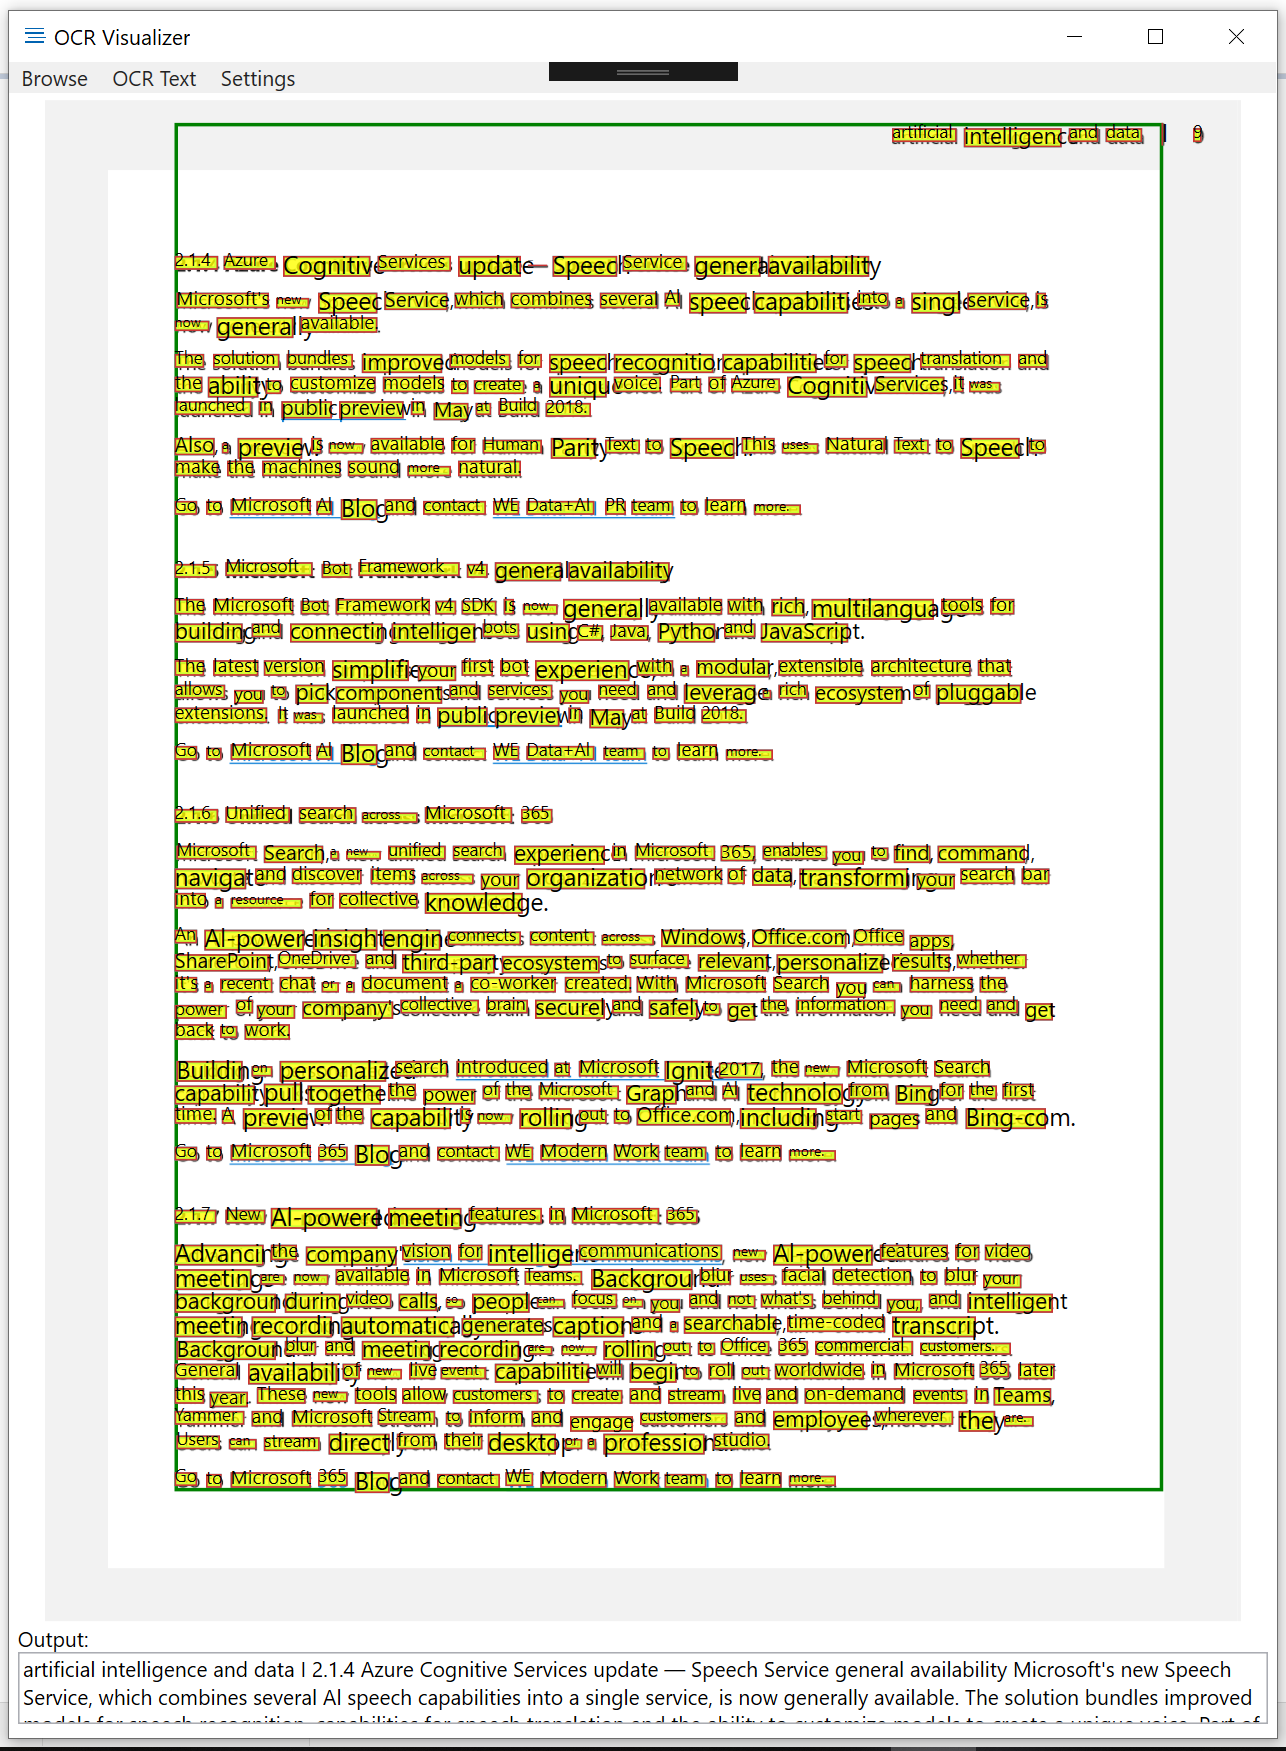
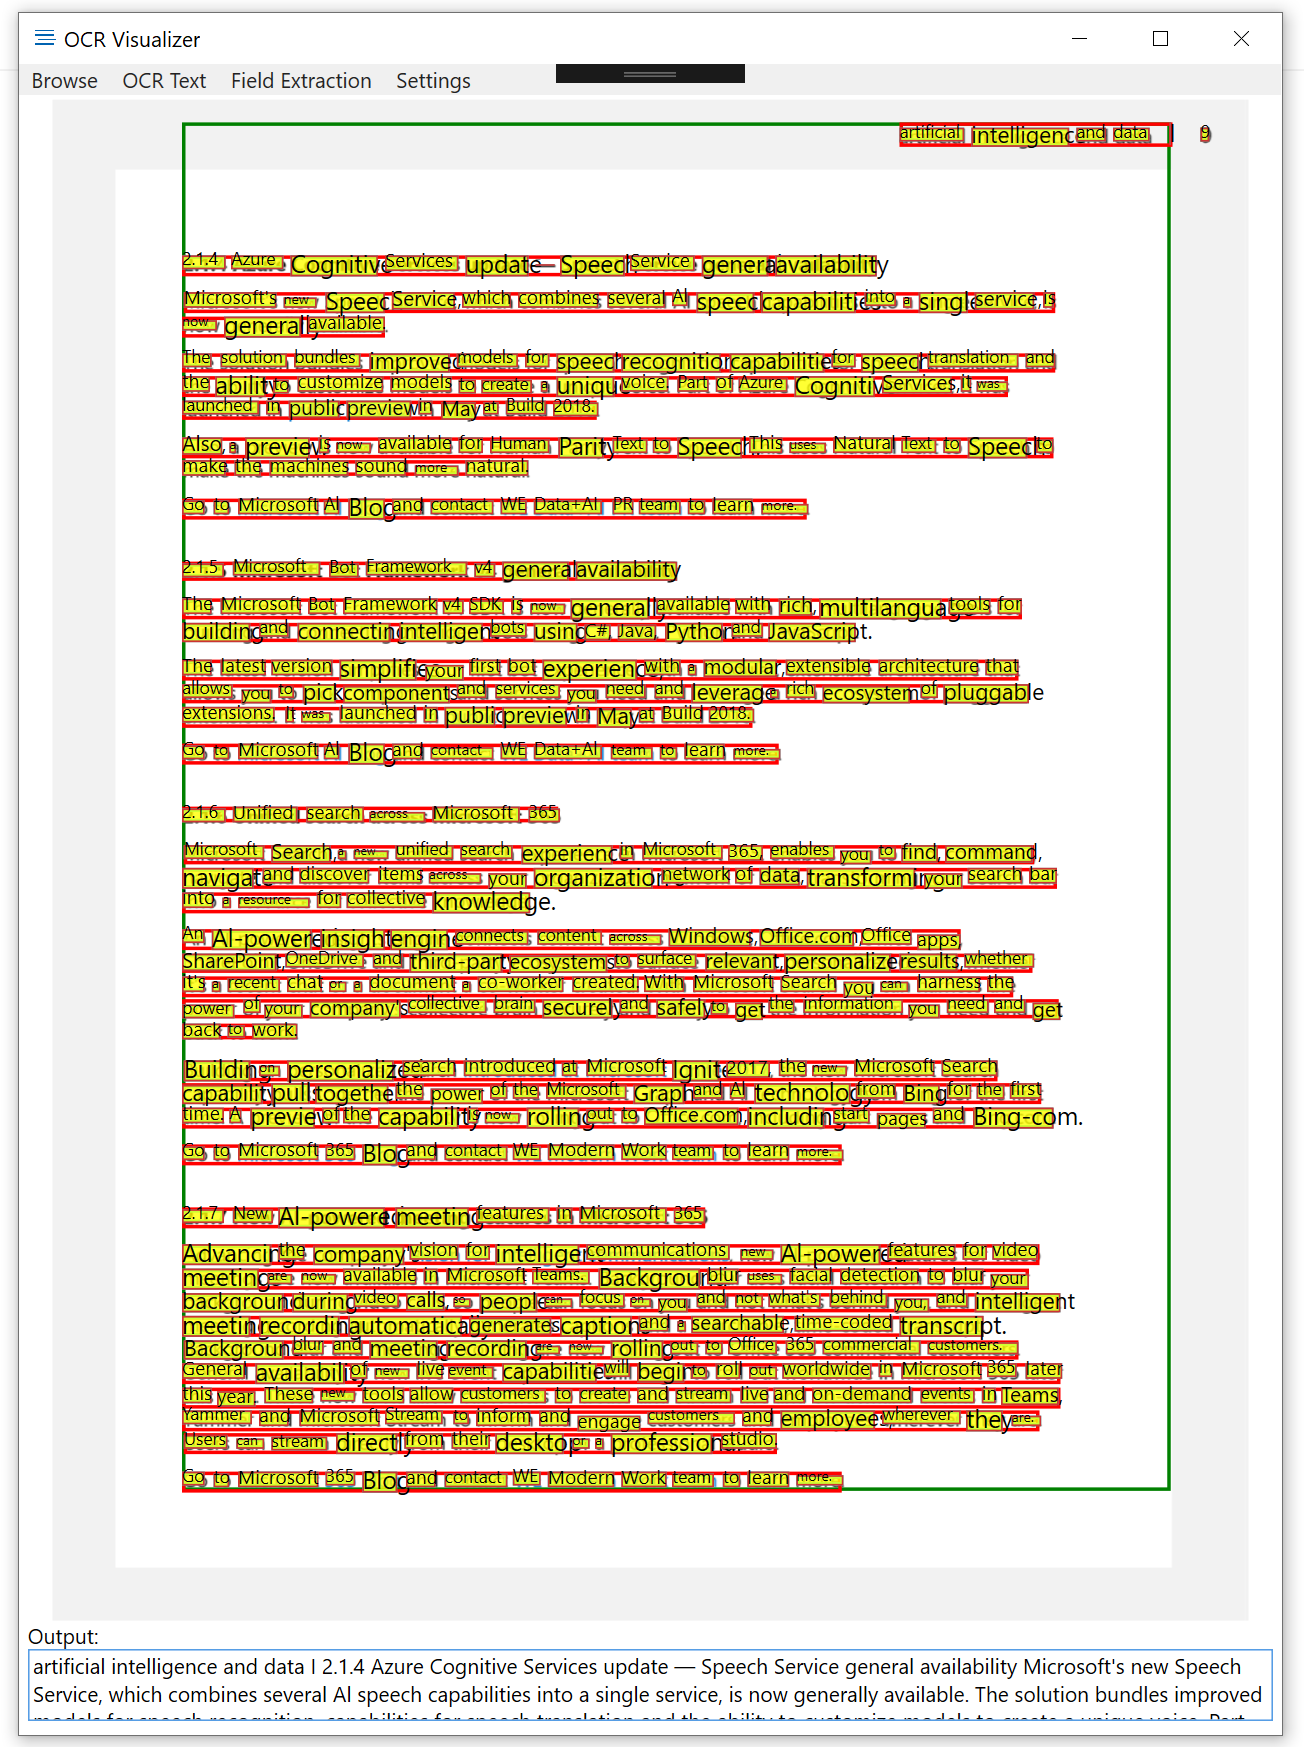
Extract Key-Value Pairs improved
Extract Key-Value Pairs experience has been improved.
New UI panel for OCR field extraction.

diff --git a/OCRVisualizer/MainWindow.xaml b/OCRVisualizer/MainWindow.xaml
@@ -51,10 +51,6 @@
                 <ComboBoxItem Content="sk (Slovak)"/>
             </ComboBox>
 
-            <TextBlock Margin="5,10,5,0"  Text="Key-Value Pairs" FontSize="14" />
-            <TextBlock Margin="5,5,5,0" Text="Enter your Keys (use comma for multiple keys):" />
-            <TextBox x:Name="txtKeys" Margin="5,0" />
-
             <TextBlock Margin="5,10,5,0"  Text="EndPoint Details" FontSize="14" />
             <TextBlock Margin="5,5,5,0" Text="Endpoint Region:" />
             <TextBox x:Name="txtEndPoint" Margin="5,0" />
@@ -63,10 +59,25 @@
             <Button Margin="5,5,5,0" Content="Update" Click="ButtonSettingsUpdate_Click"/>
 
         </StackPanel>
-        <StackPanel x:Name="stckOutput" Orientation="Vertical" VerticalAlignment="Bottom" Height="60" Margin="5,0,5,5">
+        <StackPanel x:Name="stckOutput" Orientation="Vertical" VerticalAlignment="Bottom" Height="60" Visibility="Collapsed" Margin="5,0,5,5">
             <TextBlock Text="Output:"/>
             <TextBox x:Name="txtOcrOutput" Height="41" TextWrapping="Wrap" Margin="0,0,0,2" />
         </StackPanel>
+        <Grid x:Name="gridKeyVal" Margin="0"  ClipToBounds="True" Visibility="Collapsed">
+            <Rectangle Fill="#B2A6A6A6" Margin="0" MouseLeftButtonDown="MouseLeftButtonKeyValue_Down"/>
+            <StackPanel Margin="0,0,0,-1" Orientation="Vertical" Background="#FFF1F1F1" HorizontalAlignment="Center" VerticalAlignment="Center" Visibility="Visible">
+
+                <TextBlock Margin="20,20,20,5"   Text="Key-Value Pairs" FontSize="14" />
+                <TextBlock Text="Enter your Fields (use comma for multiple keys):" Margin="20,0,20,5" />
+                <TextBox x:Name="txtKeys" Margin="20,0,20,5" />
+                <Button Margin="0,5,0,20" Content="Update" Click="ButtonKeyValueUpdate_Click" Width="251.143"/>
+                <StackPanel x:Name="stckKeyValResult" Margin="0,5,0,20" Orientation="Vertical" Width="254" Visibility="Collapsed">
+                    <TextBlock Margin="0,0,-0.286,0" Text="Results" FontSize="14" />
+                    <ListBox x:Name="listBoxKeyValue" Height="150"/>
+                </StackPanel>
+
+            </StackPanel>
+        </Grid>
         <Menu VerticalAlignment="Top" Margin="0,0,0.286,0">
             <MenuItem Header="Browse">
                 <MenuItem Header="Browse Image" Click="ButtonBrowse_Click" />
@@ -74,6 +85,9 @@
             <MenuItem Header="OCR Text">
                 <MenuItem Header="Visible/Disable" Click="ButtonVisiblity_Click"/>
                 <MenuItem Header="Output Visible/Disable" Click="ButtonVisiblityOutPut_Click"/>
+            </MenuItem>
+            <MenuItem Header="Field Extraction">
+                <MenuItem Header="Manage Key-Value" Click="ButtonKeyValue_Click" />
             </MenuItem>
             <MenuItem Header="Settings" >
                 <MenuItem Header="OCR Settings" Click="ButtonSettings_Click" />

diff --git a/OCRVisualizer/MainWindow.xaml.cs b/OCRVisualizer/MainWindow.xaml.cs
@@ -59,6 +59,9 @@ namespace OCRVisualizer
                 var comboBoxItem = comboLanguage.Items.OfType<ComboBoxItem>().FirstOrDefault(x => x.Content.ToString().Contains(docLanguage));
                 comboLanguage.SelectedIndex = comboLanguage.Items.IndexOf(comboBoxItem);
             }
+
+            // Set values of Key-Value field data
+            txtKeys.Text = searchKeys;
         }
 
         // Extract Text & Text Regions 
@@ -95,6 +98,7 @@ namespace OCRVisualizer
             }
 
             canvas.Visibility = Visibility.Visible;
+            stckOutput.Visibility = Visibility.Visible;
             txtOcrOutput.Text = ExtractTextByRegions(ocrVision);
 
             //Search key-value pairs if Keys are defined in Settings.
@@ -119,7 +123,7 @@ namespace OCRVisualizer
                         int wheight = (int)(wvalues[3] );
                         int wleft = (int)(wvalues[0]);
                         int wtop = (int)(wvalues[1]);
-                        textvalues.Add(new TextValue { BoundingBox = sword.BoundingBox, Text=sword.Text, X = wleft, Y = wtop, Height = wheight, Width = wwidth });
+                        textvalues.Add(new TextValue { BoundingBox = sword.BoundingBox, Text=sword.Text, Left = wleft, Top = wtop, Height = wheight, Width = wwidth });
                     }
                 }
             }
@@ -138,10 +142,18 @@ namespace OCRVisualizer
                         // For height It's looking for 10px above
                         string txtreply = string.Join(" ", 
                                                     from a in textvalues
-                                                    where (a.X > tv.X) && (a.X < tv.X + tv.Width + 300) && (a.Y > tv.Y - 10) && (a.Y < tv.Y + tv.Height)
+                                                    where (a.Left > tv.Left) && (a.Left < tv.Left + tv.Width + 300) && (a.Top > tv.Top - 10) && (a.Top < tv.Top + tv.Height)
                                                     select (string)a.Text);
-                        MessageBox.Show(tv.Text + " - " + txtreply);                 
+                        //MessageBox.Show(tv.Text + " - " + txtreply);
+                        listBoxKeyValue.Items.Add(tv.Text + " - " + txtreply);
                     }                    
+                }
+
+                // Hide key-value extraction if there's no match
+                if (listBoxKeyValue.Items.Count > 0)
+                {
+                    stckKeyValResult.Visibility = Visibility.Visible;
+                    gridKeyVal.Visibility = Visibility.Visible;
                 }
             }
         }
@@ -261,7 +273,7 @@ namespace OCRVisualizer
                 // The detectOrientation parameter is set to true, so the method detects and
                 // and corrects text orientation before detecting text.
 
-                string requestParameters = String.Format("language={0}&detectOrientation=true",docLanguage);
+                string requestParameters = String.Format("language={0}&detectOrientation=true",docLanguage.Split()[0]);
 
                 // Assemble the URI for the REST API method.
                 string uri = uriEndpoint + "?" + requestParameters;
@@ -308,7 +320,42 @@ namespace OCRVisualizer
                 return binaryReader.ReadBytes((int)fileStream.Length);
             }
         }
-    
+
+        // Update Setting Panel paramaters
+        public void UpdateConnectionKeys(string subscriptionValue, string endpointValue, string languageValue)
+        {
+            XmlDocument appconfigFile = new XmlDocument();
+            appconfigFile.Load(AppDomain.CurrentDomain.BaseDirectory + "App.config");
+            XmlNode appSettingsNode = appconfigFile.SelectSingleNode("configuration/appSettings");
+
+            foreach (XmlNode childNode in appSettingsNode)
+            {
+                if (childNode.Attributes["key"].Value == "subscriptionKey") childNode.Attributes["value"].Value = subscriptionValue;
+                else if (childNode.Attributes["key"].Value == "endpointRegion") childNode.Attributes["value"].Value = endpointValue;
+                else if (childNode.Attributes["key"].Value == "documentLanguage") childNode.Attributes["value"].Value = languageValue;
+            }
+            appconfigFile.Save(AppDomain.CurrentDomain.BaseDirectory + "App.config");
+            appconfigFile.Save(AppDomain.CurrentDomain.SetupInformation.ConfigurationFile);
+            MessageBox.Show("Fields are updated!");
+        }
+
+        // Update Key-Value Field Extraction parameters
+        public void UpdateKeyValue(string searchKeyValue)
+        {
+            XmlDocument appconfigFile = new XmlDocument();
+            appconfigFile.Load(AppDomain.CurrentDomain.BaseDirectory + "App.config");
+            XmlNode appSettingsNode = appconfigFile.SelectSingleNode("configuration/appSettings");
+
+            foreach (XmlNode childNode in appSettingsNode)
+            {
+                if (childNode.Attributes["key"].Value == "searchValues") childNode.Attributes["value"].Value = searchKeyValue;
+            }
+            appconfigFile.Save(AppDomain.CurrentDomain.BaseDirectory + "App.config");
+            appconfigFile.Save(AppDomain.CurrentDomain.SetupInformation.ConfigurationFile);
+            MessageBox.Show("Field keys are updated!");
+        }
+
+
         private async void ButtonBrowse_Click(object sender, RoutedEventArgs e)
         {
             var openDlg = new Microsoft.Win32.OpenFileDialog();
@@ -342,6 +389,9 @@ namespace OCRVisualizer
             //Clear previous queries if exists.
             canvas.Children.Clear();
             textvalues.Clear();
+            gridKeyVal.Visibility = Visibility.Collapsed;
+            stckKeyValResult.Visibility = Visibility.Collapsed;
+            listBoxKeyValue.Items.Clear();
 
             OCRResponse = await MakeOCRRequest(filePath);
             ExtractTextAndRegionsFromResponse();
@@ -393,26 +443,7 @@ namespace OCRVisualizer
             subscriptionKey = txtSubscriptionKey.Text;
             uriEndpoint = txtEndPoint.Text;
             docLanguage = (comboLanguage.SelectedValue as ComboBoxItem).Content as string;
-            searchKeys = txtKeys.Text;
             UpdateConnectionKeys(subscriptionKey, uriEndpoint, docLanguage);
-        }
-
-        public void UpdateConnectionKeys(string subscriptionValue, string endpointValue, string languageValue)
-        {
-            XmlDocument appconfigFile = new XmlDocument();
-            appconfigFile.Load(AppDomain.CurrentDomain.BaseDirectory + "App.config");
-            XmlNode appSettingsNode = appconfigFile.SelectSingleNode("configuration/appSettings");
-
-            foreach (XmlNode childNode in appSettingsNode)
-            {
-                if (childNode.Attributes["key"].Value == "subscriptionKey") childNode.Attributes["value"].Value = subscriptionValue;
-                else if (childNode.Attributes["key"].Value == "endpointRegion") childNode.Attributes["value"].Value = endpointValue;
-                else if (childNode.Attributes["key"].Value == "documentLanguage") childNode.Attributes["value"].Value = languageValue;
-                else if (childNode.Attributes["key"].Value == "searchValues") childNode.Attributes["value"].Value = languageValue;
-            }
-            appconfigFile.Save(AppDomain.CurrentDomain.BaseDirectory + "App.config");
-            appconfigFile.Save(AppDomain.CurrentDomain.SetupInformation.ConfigurationFile);
-            MessageBox.Show("Fields are updated!");
         }
 
         private void ComboLanguage_SelectionChanged(object sender, SelectionChangedEventArgs e)
@@ -425,5 +456,31 @@ namespace OCRVisualizer
             }
 
         }
+
+        private void ButtonKeyValue_Click(object sender, RoutedEventArgs e)
+        {
+            if (gridKeyVal.Visibility == Visibility.Visible)
+            {
+                gridKeyVal.Visibility = Visibility.Collapsed;
+            }
+            else
+            {
+                txtKeys.Text = searchKeys;
+                gridKeyVal.Visibility = Visibility.Visible;
+            }
+        }
+
+        private void ButtonKeyValueUpdate_Click(object sender, RoutedEventArgs e)
+        {
+            searchKeys = txtKeys.Text;
+            UpdateKeyValue(searchKeys);
+            gridKeyVal.Visibility = Visibility.Collapsed;
+        }
+
+        private void MouseLeftButtonKeyValue_Down(object sender, MouseButtonEventArgs e)
+        {
+            gridKeyVal.Visibility = Visibility.Collapsed;
+        }
+    
     }
 }

diff --git a/OCRVisualizer/Model/TextValue.cs b/OCRVisualizer/Model/TextValue.cs
@@ -9,8 +9,8 @@ namespace OCRVisualizer.Model
     class TextValue
     {
         public string BoundingBox { get; set; }
-        public int X;
-        public int Y;
+        public int Left;
+        public int Top;
         public int Width;
         public int Height;
         public string Text { get; set; }

diff --git a/README.md b/README.md
@@ -5,7 +5,8 @@ This tool will be helful for your data discovery, if you use OCR with your docum
 
 ## Main Functinality
 In this version;
-* You can see Bonding boxes of Regions, Lines and Words
+
+* You can see bounding boxes of `Regions`, `Lines` and `Words`
 * You can see extracted text over your original document
 * You can extract full text as output
 * You extract Key-Value Pairs
@@ -39,7 +40,7 @@ Microsoft Cognitive Services Computer Vision Endpoint details.
 </configuration>
 ```
 
-Now you can define your `Field Names` under Key-Value pairs in settings and values of these fields will be detected by their positions on the document and it'll pop-up the values.
+Now you can define your `Field Extraction` under Key-Value pairs in `Manage Key-Value` under `Field Extraction` menu and values of these fields will be detected by their positions on the document and detected values will be listed in same panel.
 
 ![](screenshots/ExtractKeyValueSettings.png)
 
